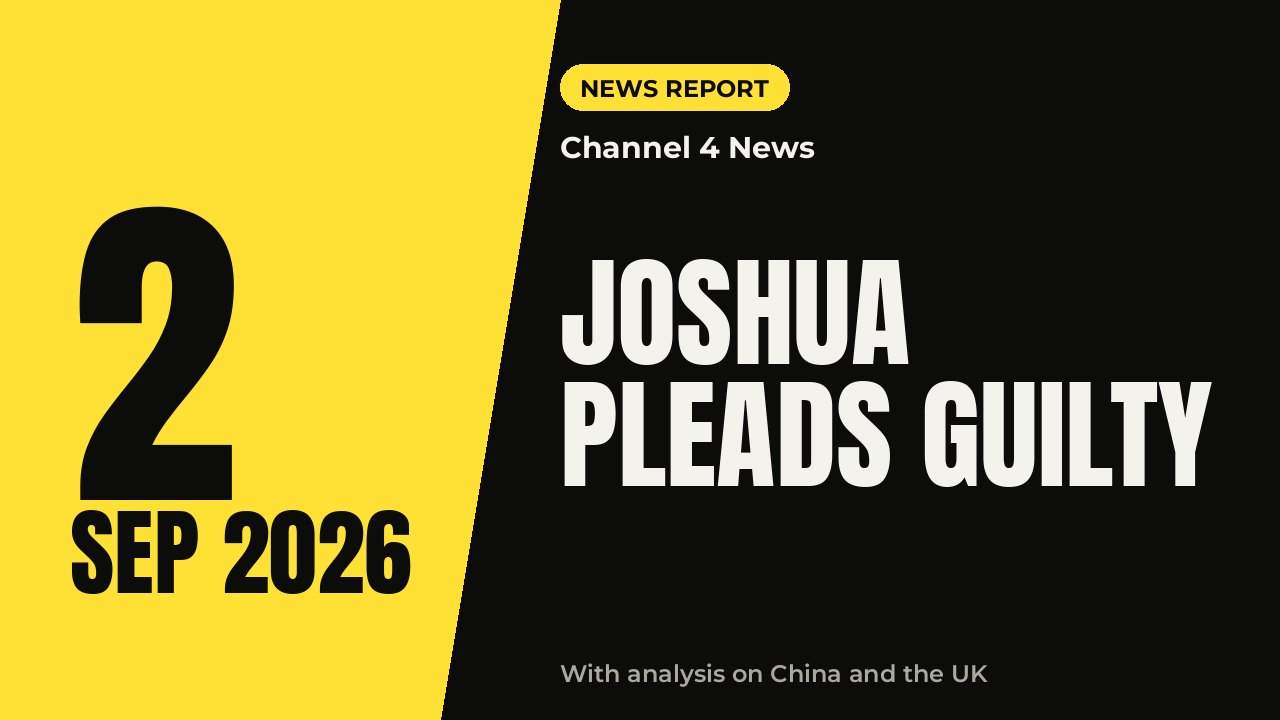
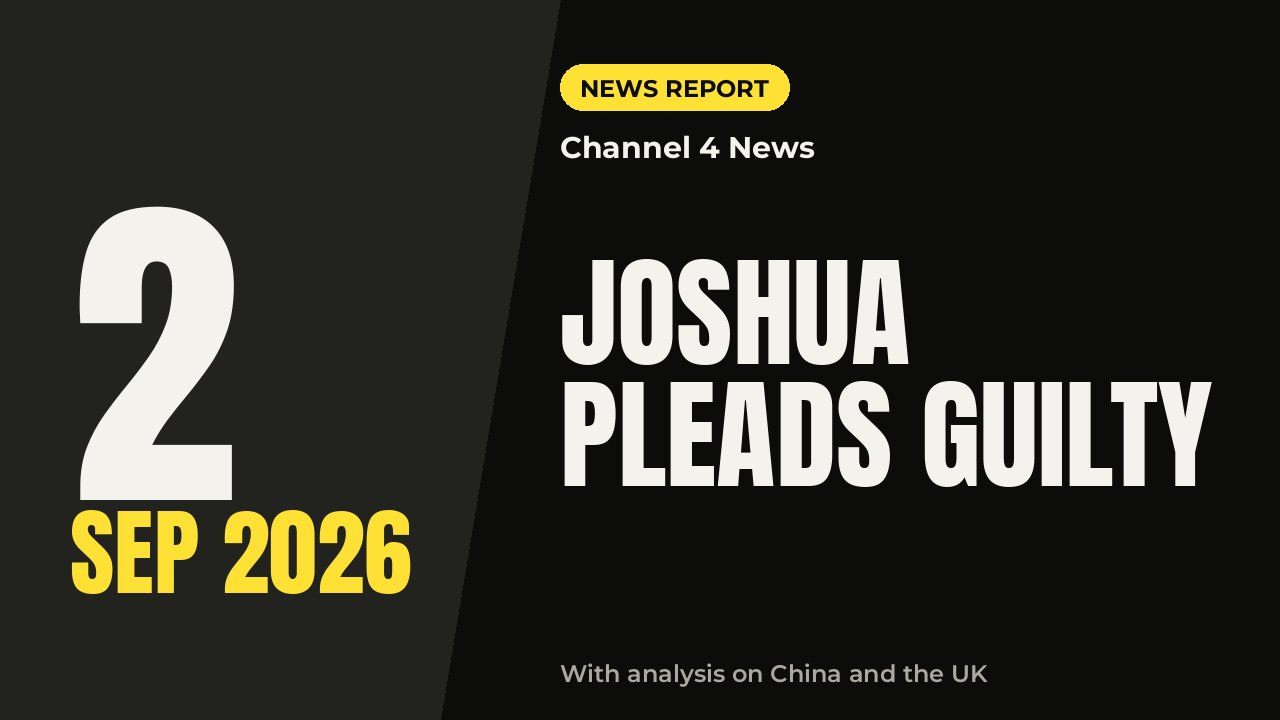
Covers: far less yellow, natural b&w still; Sky cover quote attributed to democracy and human rights
Claude-Session: https://claude.ai/code/session_01MmFPUupVRGUdsPSG21JyoV

diff --git a/tools/covers.py b/tools/covers.py
@@ -42,27 +42,27 @@ def save(img, key, folder="images/covers"):
     return folder + "/" + key + ".jpg"
 
 def waveform(key):  # Guardian podcast: lemon, audio waveform
-    img = Image.new("RGB", (W, H), LEMON); d = ImageDraw.Draw(img)
-    pill(d, 70, 64, "PODCAST", INK, LEMON)
-    d.text((70, 128), "The Guardian · Today in Focus", font=f("Montserrat-Bold.ttf", 30), fill=INK)
+    img = Image.new("RGB", (W, H), (22, 22, 20)); d = ImageDraw.Draw(img)
+    pill(d, 70, 64, "PODCAST", LEMON, INK)
+    d.text((70, 128), "The Guardian · Today in Focus", font=f("Montserrat-Bold.ttf", 30), fill=PAPER)
     rnd = random.Random(7); cx = 70
     while cx < W - 70:
         h = int(30 + 150 * abs(math.sin(cx / 37.0)) * (0.5 + rnd.random() * 0.6))
-        d.rounded_rectangle([cx, 300 - h // 2, cx + 9, 300 + h // 2], radius=4, fill=INK)
+        d.rounded_rectangle([cx, 300 - h // 2, cx + 9, 300 + h // 2], radius=4, fill=(120, 118, 110))
         cx += 17
     ft, lines, lh = fit_lines(d, "NATHAN LAW ON HIS FRIEND JOSHUA", W - 140, 230, 120)
     y = H - 60 - len(lines) * lh
     for ln in lines:
-        d.text((70, y), ln, font=ft, fill=INK); y += lh
+        d.text((70, y), ln, font=ft, fill=PAPER); y += lh
     return save(img, key)
 
 def versus(key):  # Byline podcast: black, giant outline VS
     img = Image.new("RGB", (W, H), INK); d = ImageDraw.Draw(img)
-    d.text((W - 600, -60), "VS", font=f("Anton.ttf", 640), fill=INK, stroke_width=5, stroke_fill=LEMON)
+    d.text((W - 600, -60), "VS", font=f("Anton.ttf", 640), fill=INK, stroke_width=5, stroke_fill=(70, 70, 64))
     pill(d, 70, 64, "PODCAST", LEMON, INK)
     d.text((70, 128), "Byline Times Podcast", font=f("Montserrat-Bold.ttf", 30), fill=PAPER)
     d.text((70, 290), "CHINA", font=f("Anton.ttf", 150), fill=PAPER)
-    d.text((70, 445), "VS JOSHUA", font=f("Anton.ttf", 150), fill=LEMON)
+    d.text((70, 445), "VS JOSHUA", font=f("Anton.ttf", 150), fill=PAPER)
     d.text((70, H - 58), "Andrew Duncan with Adrian Goldberg", font=f("Montserrat-SemiBold.ttf", 24), fill=(170, 168, 160))
     return save(img, key)
 
@@ -70,11 +70,11 @@ def duotone(key):  # Byline TV: film still in lemon/black duotone
     src = Image.open(os.path.join(ROOT, "images/film-poster.jpg")).convert("L")
     src = src.crop((0, 0, src.width, int(src.height * 0.74)))
     g = ImageOps.autocontrast(ImageOps.fit(src, (W, H), centering=(0.35, 0.3)))
-    img = ImageOps.colorize(g, black=INK, white=LEMON)
+    img = ImageOps.colorize(g, black=(10, 10, 9), white=(236, 233, 224), mid=(120, 117, 110))
     d = ImageDraw.Draw(img)
     d.rectangle([0, H - 190, W, H], fill=INK)
-    pill(d, 70, 64, "VIDEO", INK, LEMON)
-    d.text((70, H - 172), "BYLINE TIMES TV", font=f("Montserrat-Bold.ttf", 26), fill=LEMON)
+    pill(d, 70, 64, "VIDEO", LEMON, INK)
+    d.text((70, H - 172), "BYLINE TIMES TV", font=f("Montserrat-Bold.ttf", 26), fill=(190, 188, 180))
     d.text((70, H - 132), "ANDREW DUNCAN ON JOSHUA’S STORY", font=f("Anton.ttf", 78), fill=PAPER)
     return save(img, key)
 
@@ -94,9 +94,9 @@ def rings(key):  # Sky: black, concentric rings, quote
 
 def datestamp(key):  # Channel 4: split with big date
     img = Image.new("RGB", (W, H), INK); d = ImageDraw.Draw(img)
-    d.polygon([(0, 0), (560, 0), (440, H), (0, H)], fill=LEMON)
-    d.text((70, 100), "2", font=f("Anton.ttf", 340), fill=INK)
-    d.text((70, 480), "SEP 2026", font=f("Anton.ttf", 96), fill=INK)
+    d.polygon([(0, 0), (560, 0), (440, H), (0, H)], fill=(34, 34, 31))
+    d.text((70, 100), "2", font=f("Anton.ttf", 340), fill=PAPER)
+    d.text((70, 480), "SEP 2026", font=f("Anton.ttf", 96), fill=LEMON)
     pill(d, 560, 64, "NEWS REPORT", LEMON, INK)
     d.text((560, 128), "Channel 4 News", font=f("Montserrat-Bold.ttf", 30), fill=PAPER)
     ft, lines, lh = fit_lines(d, "JOSHUA PLEADS GUILTY", W - 560 - 60, 330, 130)
@@ -135,13 +135,13 @@ def frame(key, src, kind, outlet, title, credit, focus=0.55):  # a still from th
     ft, lines, lh = fit_lines(d, title.upper(), W - fw - 60, 380, 110)
     y = 220
     for ln in lines:
-        d.text((60, y), ln, font=ft, fill=LEMON); y += lh
+        d.text((60, y), ln, font=ft, fill=PAPER); y += lh
     cf = f("Montserrat-SemiBold.ttf", 18)
     d.text((W - 24 - d.textlength(credit, font=cf), H - 34), credit, font=cf, fill=PAPER, stroke_width=2, stroke_fill=INK)
     return save(img, key, "images/stills")
 
 COVERS = {"guardian-podcast": waveform, "byline-podcast": versus, "byline-tv": duotone,
-          "sky-nathan": lambda k: frame(k, "images/frames/sky-nathan-src.png", "INTERVIEW", "Sky News · 5 Nov 2026", "Nathan Law: “losing ground globally”", "Image: Sky News"),
+          "sky-nathan": lambda k: frame(k, "images/frames/sky-nathan-src.png", "INTERVIEW", "Sky News · 5 Nov 2026", "Nathan Law: democracy and human rights are “losing ground globally”", "Image: Sky News"),
           "c4-plea": datestamp, "pelosi-floor": stripes}
 
 def make_all():
